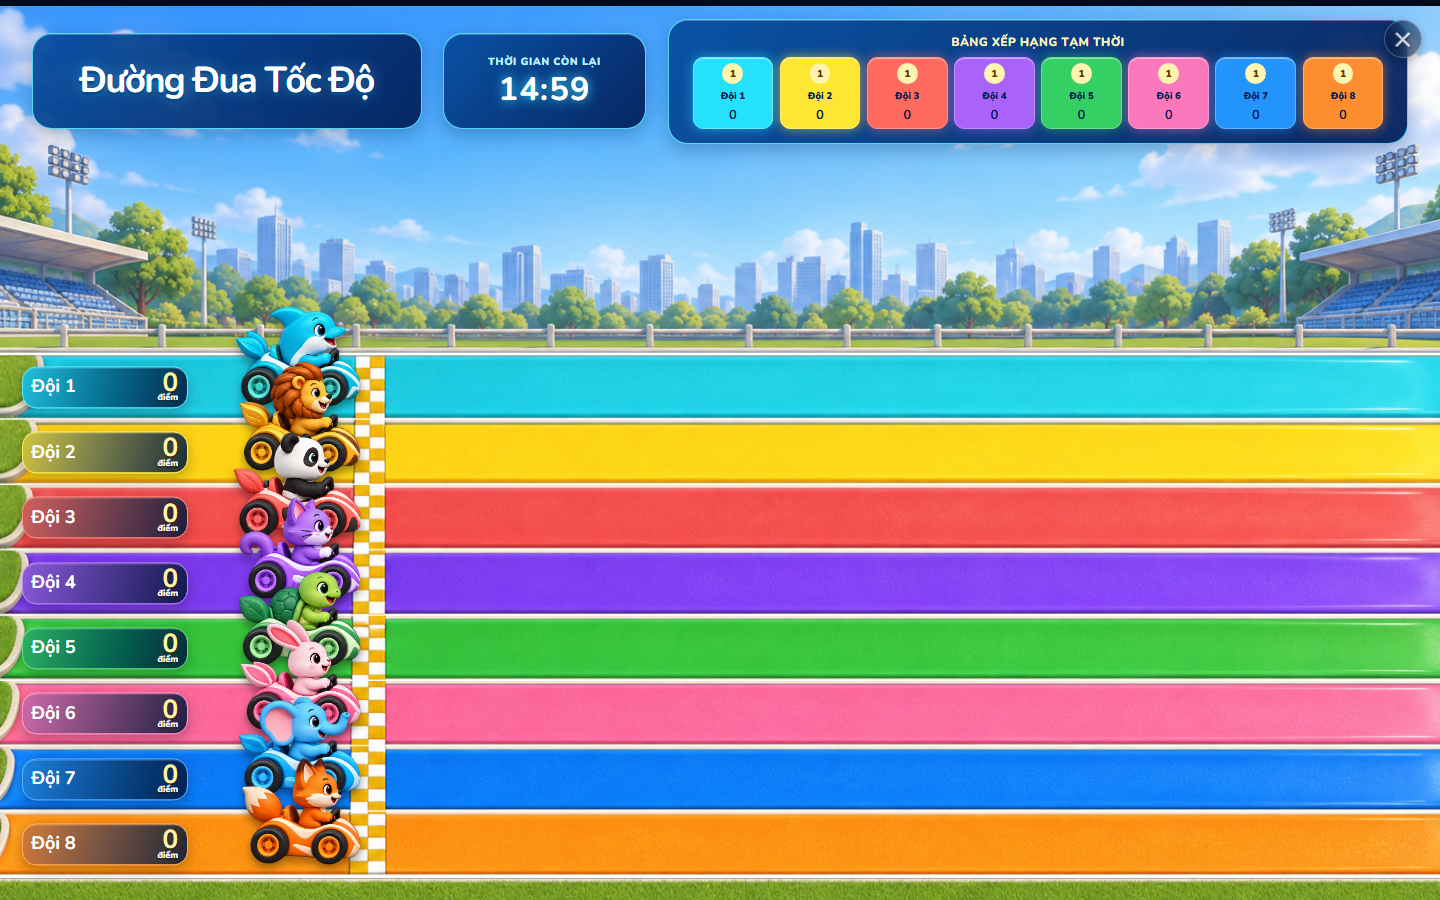
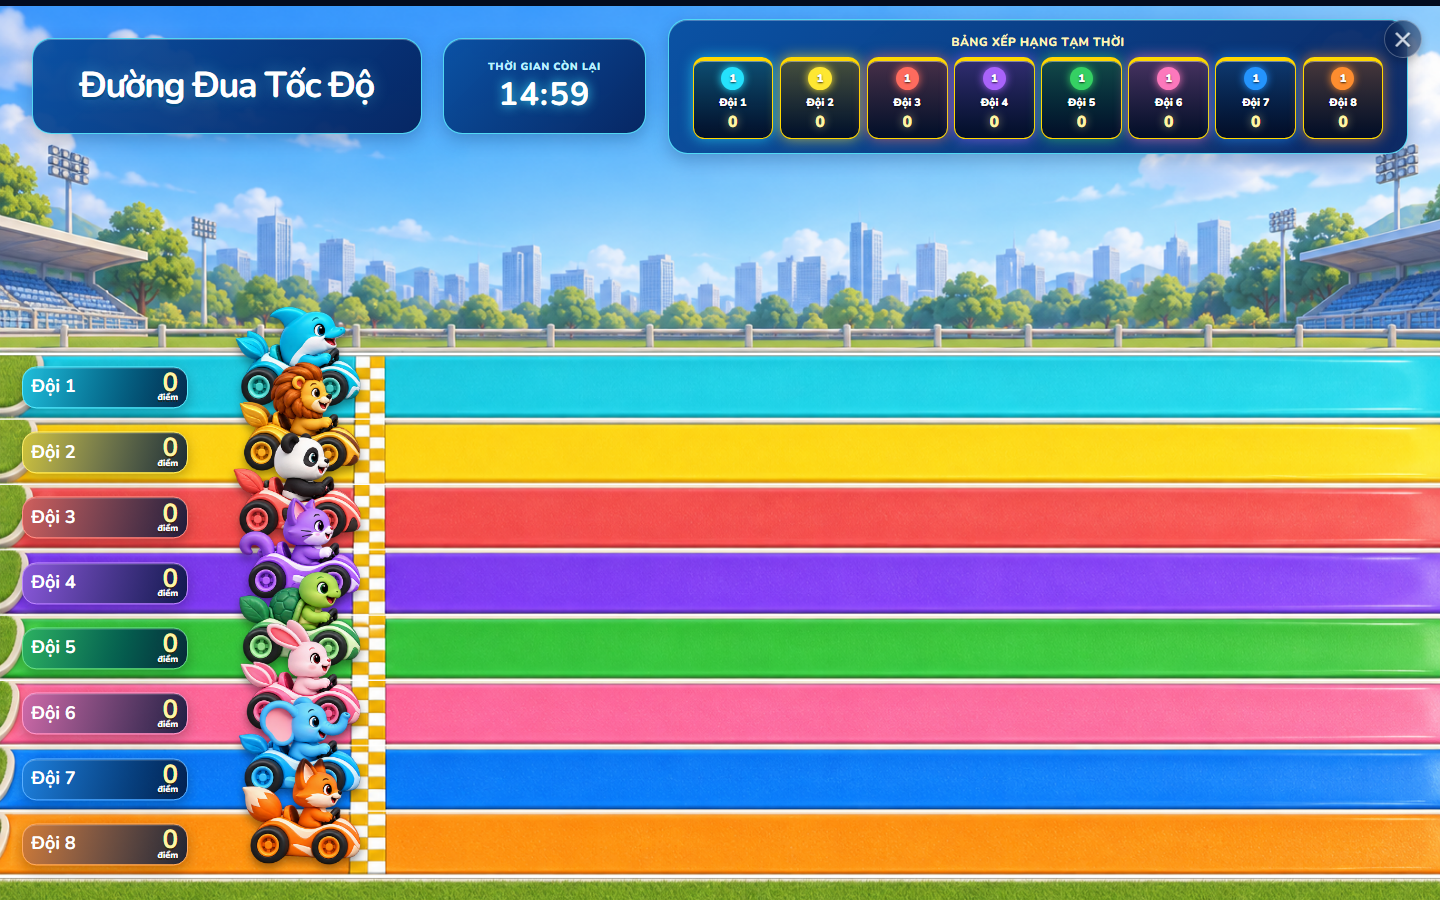
fix(team-competition): áp dụng phối màu kính mờ cao cấp cho bảng xếp hạng speed-race, balloon-festival và treasure-island

Changed region(s): [[0.0312, 0.0311, 0.9688, 0.1867]]

diff --git a/src/style.css b/src/style.css
@@ -6550,11 +6550,59 @@ input[type="text"], input[type="password"], select, textarea {
 #treasure-modal.team-board-fullscreen .team-competition-board--live .team-race-stadium--speed-race .team-race-scoreboard { min-width: 0; padding: 14px 24px; }
 #treasure-modal.team-board-fullscreen .team-competition-board--live .team-race-stadium--speed-race .team-race-scoreboard p { margin-bottom: 7px; font-size: clamp(.62rem, .82vw, .86rem) !important; }
 #treasure-modal.team-board-fullscreen .team-competition-board--live .team-race-stadium--speed-race .team-race-scoreboard ol { grid-template-columns: repeat(8, minmax(0, 1fr)); gap: clamp(3px, .45vw, 8px); }
-#treasure-modal.team-board-fullscreen .team-competition-board--live .team-race-stadium--speed-race .team-race-scoreboard__entry { display: grid; grid-template-columns: minmax(0, 1fr); grid-template-rows: auto minmax(0, 1fr) auto; gap: 2px; min-width: 0; min-height: clamp(44px, 5.3vw, 72px); padding: clamp(3px, .38vw, 7px) clamp(2px, .35vw, 6px); border: 1px solid color-mix(in srgb, var(--leaderboard-accent) 72%, white); border-radius: clamp(6px, .7vw, 11px); background: var(--leaderboard-accent); box-shadow: inset 0 1px rgba(255,255,255,.28), 0 3px 7px rgba(0, 12, 46, .2); color: #061d50; text-align: center; }
-#treasure-modal.team-board-fullscreen .team-race-stadium--speed-race .team-race-scoreboard__entry span { justify-self: center; width: clamp(15px, 1.45vw, 23px); height: clamp(15px, 1.45vw, 23px); background: #fff4b0; color: #5e3900; font-size: clamp(.5rem, .7vw, .76rem); }
-#treasure-modal.team-board-fullscreen .team-race-stadium--speed-race .team-race-scoreboard__entry strong { align-self: center; color: #061d50; font-size: clamp(.42rem, .66vw, .76rem); font-weight: 950; line-height: 1.08; }
-#treasure-modal.team-board-fullscreen .team-race-stadium--speed-race .team-race-scoreboard__entry b { color: #061d50; font-size: clamp(.56rem, .9vw, 1rem); line-height: 1; text-shadow: none; }
-#treasure-modal.team-board-fullscreen .team-race-stadium--speed-race .team-race-scoreboard__entry[data-rank="1"] { box-shadow: inset 0 1px rgba(255,255,255,.45), 0 0 12px color-mix(in srgb, var(--leaderboard-accent) 58%, transparent); }
+#treasure-modal.team-board-fullscreen .team-competition-board--live .team-race-stadium--speed-race .team-race-scoreboard__entry {
+    display: grid;
+    grid-template-columns: minmax(0, 1fr);
+    grid-template-rows: auto minmax(0, 1fr) auto;
+    gap: 4px;
+    min-width: 0;
+    min-height: clamp(54px, 5.8vw, 82px);
+    padding: clamp(4px, .45vw, 8px) clamp(3px, .4vw, 7px);
+    border: 1.5px solid color-mix(in srgb, var(--leaderboard-accent) 65%, rgba(255, 255, 255, 0.15));
+    border-top: 4px solid var(--leaderboard-accent);
+    border-radius: clamp(8px, .8vw, 12px);
+    background: linear-gradient(180deg, color-mix(in srgb, var(--leaderboard-accent) 26%, rgba(6, 24, 60, 0.95)), rgba(2, 10, 32, 0.92));
+    box-shadow: 0 4px 14px rgba(0, 0, 0, 0.45), inset 0 1px 0 rgba(255, 255, 255, 0.25);
+    color: #fff;
+    text-align: center;
+    transition: all 0.3s ease;
+}
+#treasure-modal.team-board-fullscreen .team-race-stadium--speed-race .team-race-scoreboard__entry span {
+    justify-self: center;
+    display: grid;
+    place-items: center;
+    width: clamp(18px, 1.6vw, 26px);
+    height: clamp(18px, 1.6vw, 26px);
+    border-radius: 50%;
+    background: var(--leaderboard-accent);
+    color: #fff;
+    font-size: clamp(.55rem, .75vw, .85rem);
+    font-weight: 900;
+    box-shadow: 0 0 8px var(--leaderboard-accent);
+    text-shadow: 0 1px 2px rgba(0, 0, 0, 0.8);
+}
+#treasure-modal.team-board-fullscreen .team-race-stadium--speed-race .team-race-scoreboard__entry strong {
+    align-self: center;
+    color: #fff;
+    font-size: clamp(.52rem, .74vw, .86rem);
+    font-weight: 850;
+    line-height: 1.15;
+    text-shadow: 0 1px 2px rgba(0, 0, 0, 0.8);
+    overflow: hidden;
+    text-overflow: ellipsis;
+    white-space: nowrap;
+}
+#treasure-modal.team-board-fullscreen .team-race-stadium--speed-race .team-race-scoreboard__entry b {
+    color: #fff4a4;
+    font-size: clamp(.72rem, 1.1vw, 1.25rem);
+    font-weight: 900;
+    line-height: 1;
+    text-shadow: 0 0 10px rgba(255, 244, 164, 0.6);
+}
+#treasure-modal.team-board-fullscreen .team-race-stadium--speed-race .team-race-scoreboard__entry[data-rank="1"] {
+    box-shadow: 0 0 14px color-mix(in srgb, var(--leaderboard-accent) 65%, transparent), inset 0 1px rgba(255, 255, 255, 0.4);
+    border-color: #ffd700;
+}
 #treasure-modal.team-board-fullscreen .team-race-stadium--speed-race .team-race-scoreboard__entry--cyan { --leaderboard-accent: #25e1fc; }
 #treasure-modal.team-board-fullscreen .team-race-stadium--speed-race .team-race-scoreboard__entry--yellow { --leaderboard-accent: #fee732; }
 #treasure-modal.team-board-fullscreen .team-race-stadium--speed-race .team-race-scoreboard__entry--coral { --leaderboard-accent: #fe6b5e; }
@@ -6600,7 +6648,7 @@ input[type="text"], input[type="password"], select, textarea {
     top: clamp(10px, 1.4vh, 18px);
     bottom: clamp(10px, 1.4vh, 18px);
     left: clamp(6px, 0.6vw, 10px);
-    width: clamp(160px, 13.2vw, 208px);
+    width: clamp(195px, 16vw, 240px);
     z-index: 10;
     display: flex;
     flex-direction: column;
@@ -6713,15 +6761,17 @@ input[type="text"], input[type="password"], select, textarea {
     display: grid;
     grid-template-columns: clamp(28px, 2vw, 36px) 1fr auto;
     align-items: center;
-    gap: clamp(6px, 0.7vw, 10px);
-    min-height: clamp(68px, 7.5vh, 92px);
-    padding: clamp(6px, 0.8vh, 10px) clamp(8px, 0.8vw, 12px);
-    border: 1.5px solid color-mix(in srgb, var(--leaderboard-accent) 72%, white);
+    gap: clamp(8px, 0.8vw, 12px);
+    min-height: clamp(52px, 6.2vh, 72px);
+    padding: clamp(6px, 0.8vh, 10px) clamp(10px, 0.8vw, 14px);
+    border: 1.5px solid color-mix(in srgb, var(--leaderboard-accent) 65%, rgba(255, 255, 255, 0.15));
+    border-left: 6px solid var(--leaderboard-accent);
     border-radius: clamp(10px, 1.1vw, 16px);
-    background: var(--leaderboard-accent);
-    box-shadow: inset 0 1px rgba(255,255,255,.35), 0 4px 10px rgba(0, 12, 46, .24);
-    color: #061d50;
+    background: linear-gradient(90deg, color-mix(in srgb, var(--leaderboard-accent) 26%, rgba(6, 24, 60, 0.95)), rgba(2, 10, 32, 0.92));
+    box-shadow: 0 4px 14px rgba(0, 0, 0, 0.45), inset 0 1px 0 rgba(255, 255, 255, 0.25);
+    color: #fff;
     text-align: left;
+    transition: all 0.3s ease;
 }
 #treasure-modal.team-board-fullscreen .team-race-stadium--balloon-festival .team-race-scoreboard__entry span {
     display: grid;
@@ -6729,32 +6779,32 @@ input[type="text"], input[type="password"], select, textarea {
     width: clamp(28px, 2vw, 36px);
     height: clamp(28px, 2vw, 36px);
     border-radius: 50%;
-    background: #fff4b0;
-    color: #5e3900;
+    background: var(--leaderboard-accent);
+    color: #fff;
     font-size: clamp(.92rem, 1.15vw, 1.3rem);
     font-weight: 900;
-    box-shadow: 0 2px 5px rgba(0, 0, 0, .2);
+    box-shadow: 0 0 10px var(--leaderboard-accent);
+    text-shadow: 0 1px 2px rgba(0, 0, 0, 0.8);
 }
 #treasure-modal.team-board-fullscreen .team-race-stadium--balloon-festival .team-race-scoreboard__entry strong {
     overflow: hidden;
-    color: #061d50;
+    color: #fff;
     font-size: clamp(.88rem, 1.05vw, 1.2rem);
-    font-weight: 950;
-    line-height: 1.15;
+    font-weight: 850;
+    line-height: 1.2;
     text-overflow: ellipsis;
-    display: -webkit-box;
-    -webkit-line-clamp: 2;
-    -webkit-box-orient: vertical;
-    word-break: break-word;
+    white-space: nowrap;
+    text-shadow: 0 1px 2px rgba(0, 0, 0, 0.8);
 }
 #treasure-modal.team-board-fullscreen .team-race-stadium--balloon-festival .team-race-scoreboard__entry b {
-    color: #061d50;
+    color: #fff4a4;
     font-size: clamp(1.15rem, 1.45vw, 1.65rem);
     font-weight: 900;
     line-height: 1;
+    text-shadow: 0 0 12px rgba(255, 244, 164, 0.6);
 }
 #treasure-modal.team-board-fullscreen .team-race-stadium--balloon-festival .team-race-scoreboard__entry[data-rank="1"] {
-    box-shadow: inset 0 1px rgba(255,255,255,.45), 0 0 12px color-mix(in srgb, var(--leaderboard-accent) 58%, transparent);
+    box-shadow: 0 0 16px color-mix(in srgb, var(--leaderboard-accent) 60%, transparent), inset 0 1px rgba(255, 255, 255, 0.4);
 }
 #treasure-modal.team-board-fullscreen .team-race-stadium--balloon-festival .team-race-scoreboard__entry--cyan { --leaderboard-accent: #25e1fc; }
 #treasure-modal.team-board-fullscreen .team-race-stadium--balloon-festival .team-race-scoreboard__entry--yellow { --leaderboard-accent: #fee732; }
@@ -6784,7 +6834,7 @@ input[type="text"], input[type="password"], select, textarea {
     position: absolute;
     top: 0;
     bottom: 0;
-    left: clamp(172px, 14.1vw, 222px);
+    left: clamp(208px, 17vw, 256px);
     right: clamp(6px, 0.6vw, 12px);
     overflow: visible;
     z-index: 3;
@@ -7018,47 +7068,53 @@ input[type="text"], input[type="password"], select, textarea {
     display: grid;
     grid-template-columns: minmax(0, 1fr);
     grid-template-rows: auto minmax(0, 1fr) auto;
-    gap: 2px;
+    gap: 4px;
     min-width: 0;
-    min-height: clamp(38px, 4.8vw, 62px);
-    padding: clamp(2px, 0.35vw, 5px) clamp(2px, 0.3vw, 5px);
-    border: 1px solid color-mix(in srgb, var(--leaderboard-accent) 72%, white);
-    border-radius: clamp(6px, 0.7vw, 10px);
-    background: var(--leaderboard-accent);
-    box-shadow: inset 0 1px rgba(255, 255, 255, 0.28), 0 3px 7px rgba(0, 12, 46, 0.2);
-    color: #061d50;
+    min-height: clamp(52px, 5.5vw, 76px);
+    padding: clamp(4px, 0.45vw, 8px) clamp(3px, 0.4vw, 7px);
+    border: 1.5px solid color-mix(in srgb, var(--leaderboard-accent) 65%, rgba(255, 255, 255, 0.15));
+    border-top: 4px solid var(--leaderboard-accent);
+    border-radius: clamp(8px, 0.8vw, 12px);
+    background: linear-gradient(180deg, color-mix(in srgb, var(--leaderboard-accent) 26%, rgba(6, 24, 60, 0.95)), rgba(2, 10, 32, 0.92));
+    box-shadow: 0 4px 14px rgba(0, 0, 0, 0.45), inset 0 1px 0 rgba(255, 255, 255, 0.25);
+    color: #fff;
     text-align: center;
+    transition: all 0.3s ease;
 }
 #treasure-modal.team-board-fullscreen .team-race-stadium--treasure-island .team-race-scoreboard__entry span {
     justify-self: center;
-    width: clamp(14px, 1.35vw, 20px);
-    height: clamp(14px, 1.35vw, 20px);
-    background: #fff4b0;
-    color: #5e3900;
-    font-size: clamp(0.48rem, 0.65vw, 0.72rem);
-    font-weight: 900;
-    border-radius: 50%;
     display: grid;
     place-items: center;
+    width: clamp(18px, 1.6vw, 24px);
+    height: clamp(18px, 1.6vw, 24px);
+    border-radius: 50%;
+    background: var(--leaderboard-accent);
+    color: #fff;
+    font-size: clamp(0.55rem, 0.72vw, 0.82rem);
+    font-weight: 900;
+    box-shadow: 0 0 8px var(--leaderboard-accent);
+    text-shadow: 0 1px 2px rgba(0, 0, 0, 0.8);
 }
 #treasure-modal.team-board-fullscreen .team-race-stadium--treasure-island .team-race-scoreboard__entry strong {
     align-self: center;
-    color: #061d50;
-    font-size: clamp(0.42rem, 0.64vw, 0.74rem);
-    font-weight: 950;
-    line-height: 1.08;
+    color: #fff;
+    font-size: clamp(0.52rem, 0.72vw, 0.85rem);
+    font-weight: 850;
+    line-height: 1.15;
+    text-shadow: 0 1px 2px rgba(0, 0, 0, 0.8);
     overflow: hidden;
     text-overflow: ellipsis;
     white-space: nowrap;
 }
 #treasure-modal.team-board-fullscreen .team-race-stadium--treasure-island .team-race-scoreboard__entry b {
-    color: #061d50;
-    font-size: clamp(0.54rem, 0.85vw, 0.95rem);
+    color: #fff4a4;
+    font-size: clamp(0.72rem, 1.05vw, 1.25rem);
+    font-weight: 900;
     line-height: 1;
-    text-shadow: none;
+    text-shadow: 0 0 10px rgba(255, 244, 164, 0.6);
 }
 #treasure-modal.team-board-fullscreen .team-race-stadium--treasure-island .team-race-scoreboard__entry[data-rank="1"] {
-    box-shadow: inset 0 1px rgba(255, 255, 255, 0.45), 0 0 12px color-mix(in srgb, var(--leaderboard-accent) 58%, transparent);
+    box-shadow: 0 0 14px color-mix(in srgb, var(--leaderboard-accent) 65%, transparent), inset 0 1px rgba(255, 255, 255, 0.4);
     border-color: #ffd700;
 }
 
